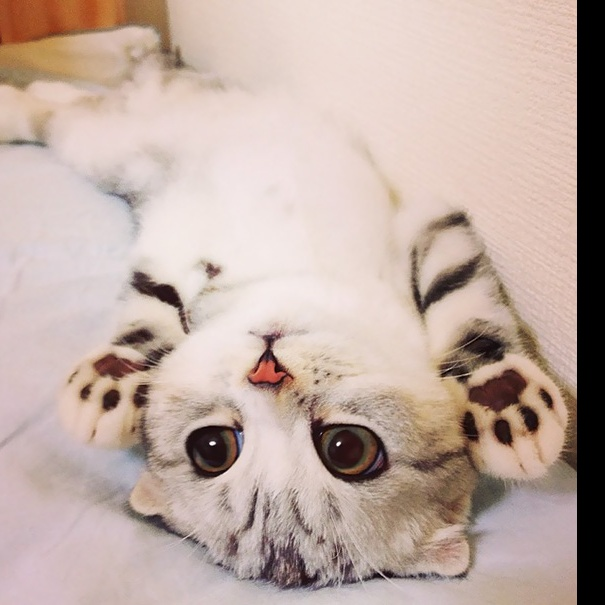
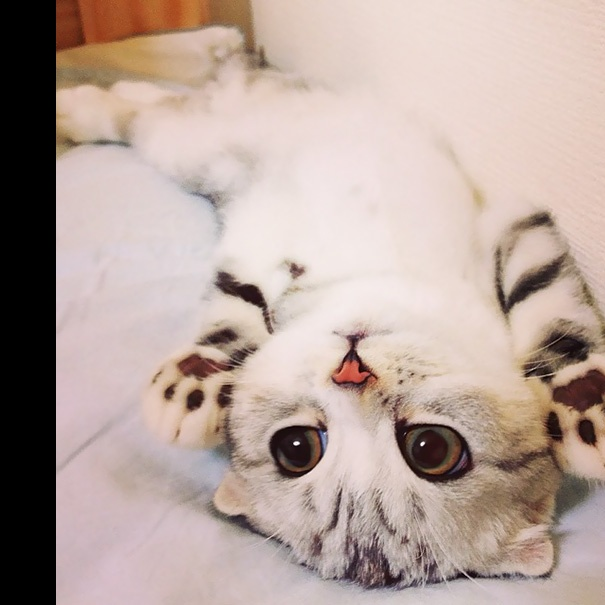
update

diff --git a/images/augmentation.py b/images/augmentation.py
@@ -542,11 +542,11 @@ if __name__ == '__main__':
         transformed_image = transform(image=image)
 
     elif augmentation == 'translatex':
-        transform = iaa.TranslateX(px=(-100, 100))
+        transform = iaa.TranslateX(px=(0, 100))
         transformed_image = transform(image=image)
 
     elif augmentation == 'translatey':
-        transform = iaa.TranslateY(px=(-100, 100))
+        transform = iaa.TranslateY(px=(0, 100))
         transformed_image = transform(image=image)
 
     ## Crop
